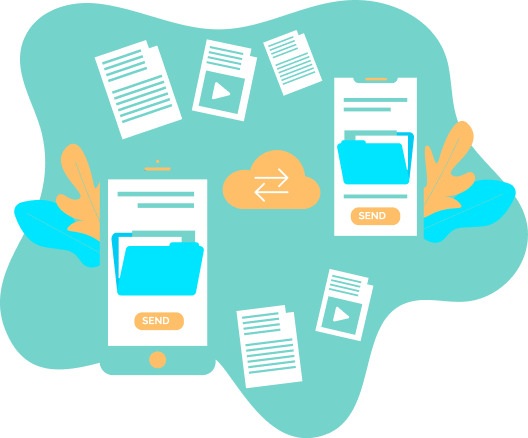
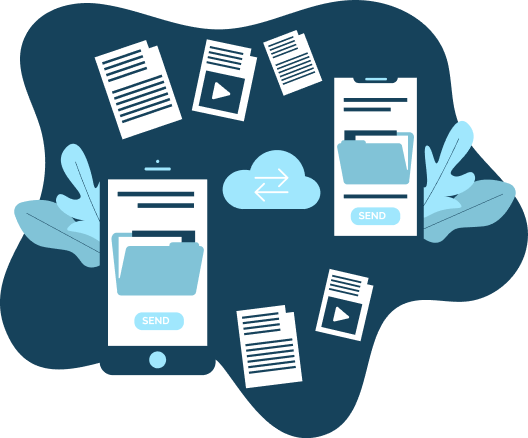
changed color pallete and images

diff --git a/client/src/index.css b/client/src/index.css
@@ -49,7 +49,7 @@
     /* for backgrounds */
     --surface-color: #E1E1E1;
     /* for disabled */
-    --accent-color: #FFBF69;
+    --accent-color: #a0e7fd;
     /* for icons */
     --highlight-color: #81c3d7;
     --light-highlight-color: #e0f8ff;

diff --git a/client/README.md b/client/README.md
@@ -6,15 +6,15 @@ body-dark-overlay - z-index == 105
 
 ---theme 
 
-2EC4B6
+16425B
 
----orange
+---highlight
 
-FF9F1C
+81c3d7
 
 ---light 
 
-FFBF69
+a0e7fd
 
 --- surface
 
